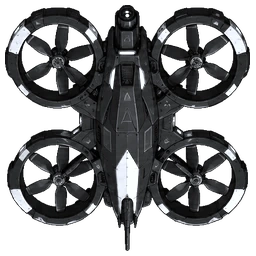
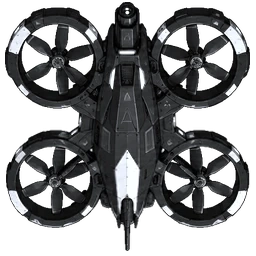
Widen Onyx rear rotors and ease flight turns

Changed region(s): [[0.0, 0.4375, 1.0, 0.9062], [0.375, 0.0, 0.625, 0.1562], [0.4688, 0.1562, 0.5312, 0.2188]]

diff --git a/game.js b/game.js
@@ -137,7 +137,7 @@ const spriteBounds = [[8, 20, 284, 260], [308, 24, 284, 252], [608, 25, 284, 249
 const quayAtlas = new Image();
 quayAtlas.src = 'assets/north-quay-drones.webp';
 const onyxArt = new Image();
-onyxArt.src = 'assets/onyx-m15.webp';
+onyxArt.src = 'assets/onyx-m15.webp?v=2';
 const storyAtlas = new Image();
 storyAtlas.src = 'assets/specialty-drones.webp';
 const fleetArt = new Image();
@@ -651,8 +651,8 @@ function easeNose(angle,target,dt,hovering = false) {
   const difference = target-angle;
   const turn = Math.atan2(Math.sin(difference),Math.cos(difference));
   if (Math.abs(turn) < .006) return target;
-  const maxStep = (hovering ? 2.8 : 6.8)*dt;
-  return angle+clamp(turn*(1-Math.exp(-(hovering ? 5 : 9)*dt)),-maxStep,maxStep);
+  const maxStep = (hovering ? 2.5 : 5.3)*dt;
+  return angle+clamp(turn*(1-Math.exp(-(hovering ? 4.4 : 7.4)*dt)),-maxStep,maxStep);
 }
 function turnNose(angle,dx,dy,dt) {
   const moving = Boolean(dx || dy);
@@ -1493,7 +1493,8 @@ const spriteRotors = [
   [[64,66,45],[190,66,45],[60,185,46],[195,185,46]],
   [[60,63,45],[197,63,45],[58,181,45],[199,181,45]],
   [[57,72,41],[197,72,41],[57,191,41],[197,191,41]],
-  [[59,72,43],[197,72,43],[59,192,43],[197,192,43]]
+  [[59,72,43],[197,72,43],[59,192,43],[197,192,43]],
+  [[57,72,41],[197,72,41],[53,193,41],[201,193,41]]
 ];
 const airframeLayers = [];
 function spinSprite(ctx,index,spin,size) {
@@ -1501,7 +1502,7 @@ function spinSprite(ctx,index,spin,size) {
   const image = isOnyx ? onyxArt : index < 3 ? fleetArt : index < 5 ? storyAtlas : quayAtlas;
   if (!image.complete || !image.naturalWidth) return false;
   const column = isOnyx ? 0 : index < 3 ? index : index < 5 ? index-3 : index-5;
-  const rotorLayout = spriteRotors[isOnyx ? 5 : index];
+  const rotorLayout = spriteRotors[index];
   if (!airframeLayers[index]) {
     const shell = document.createElement('canvas');
     shell.width = shell.height = 256;

diff --git a/index.html b/index.html
@@ -130,7 +130,7 @@
 <script src="story.js?v=4"></script>
 <script src="race.js"></script>
 <script src="audio.js"></script>
-<script src="game.js?v=8"></script>
+<script src="game.js?v=9"></script>
 <!-- Embedded display font: DejaVu Sans Mono Bold (subset)
 Copyright: Copyright (c) 2003 by Bitstream, Inc. All Rights Reserved.
  Bitstream Vera is a trademark of Bitstream, Inc.
